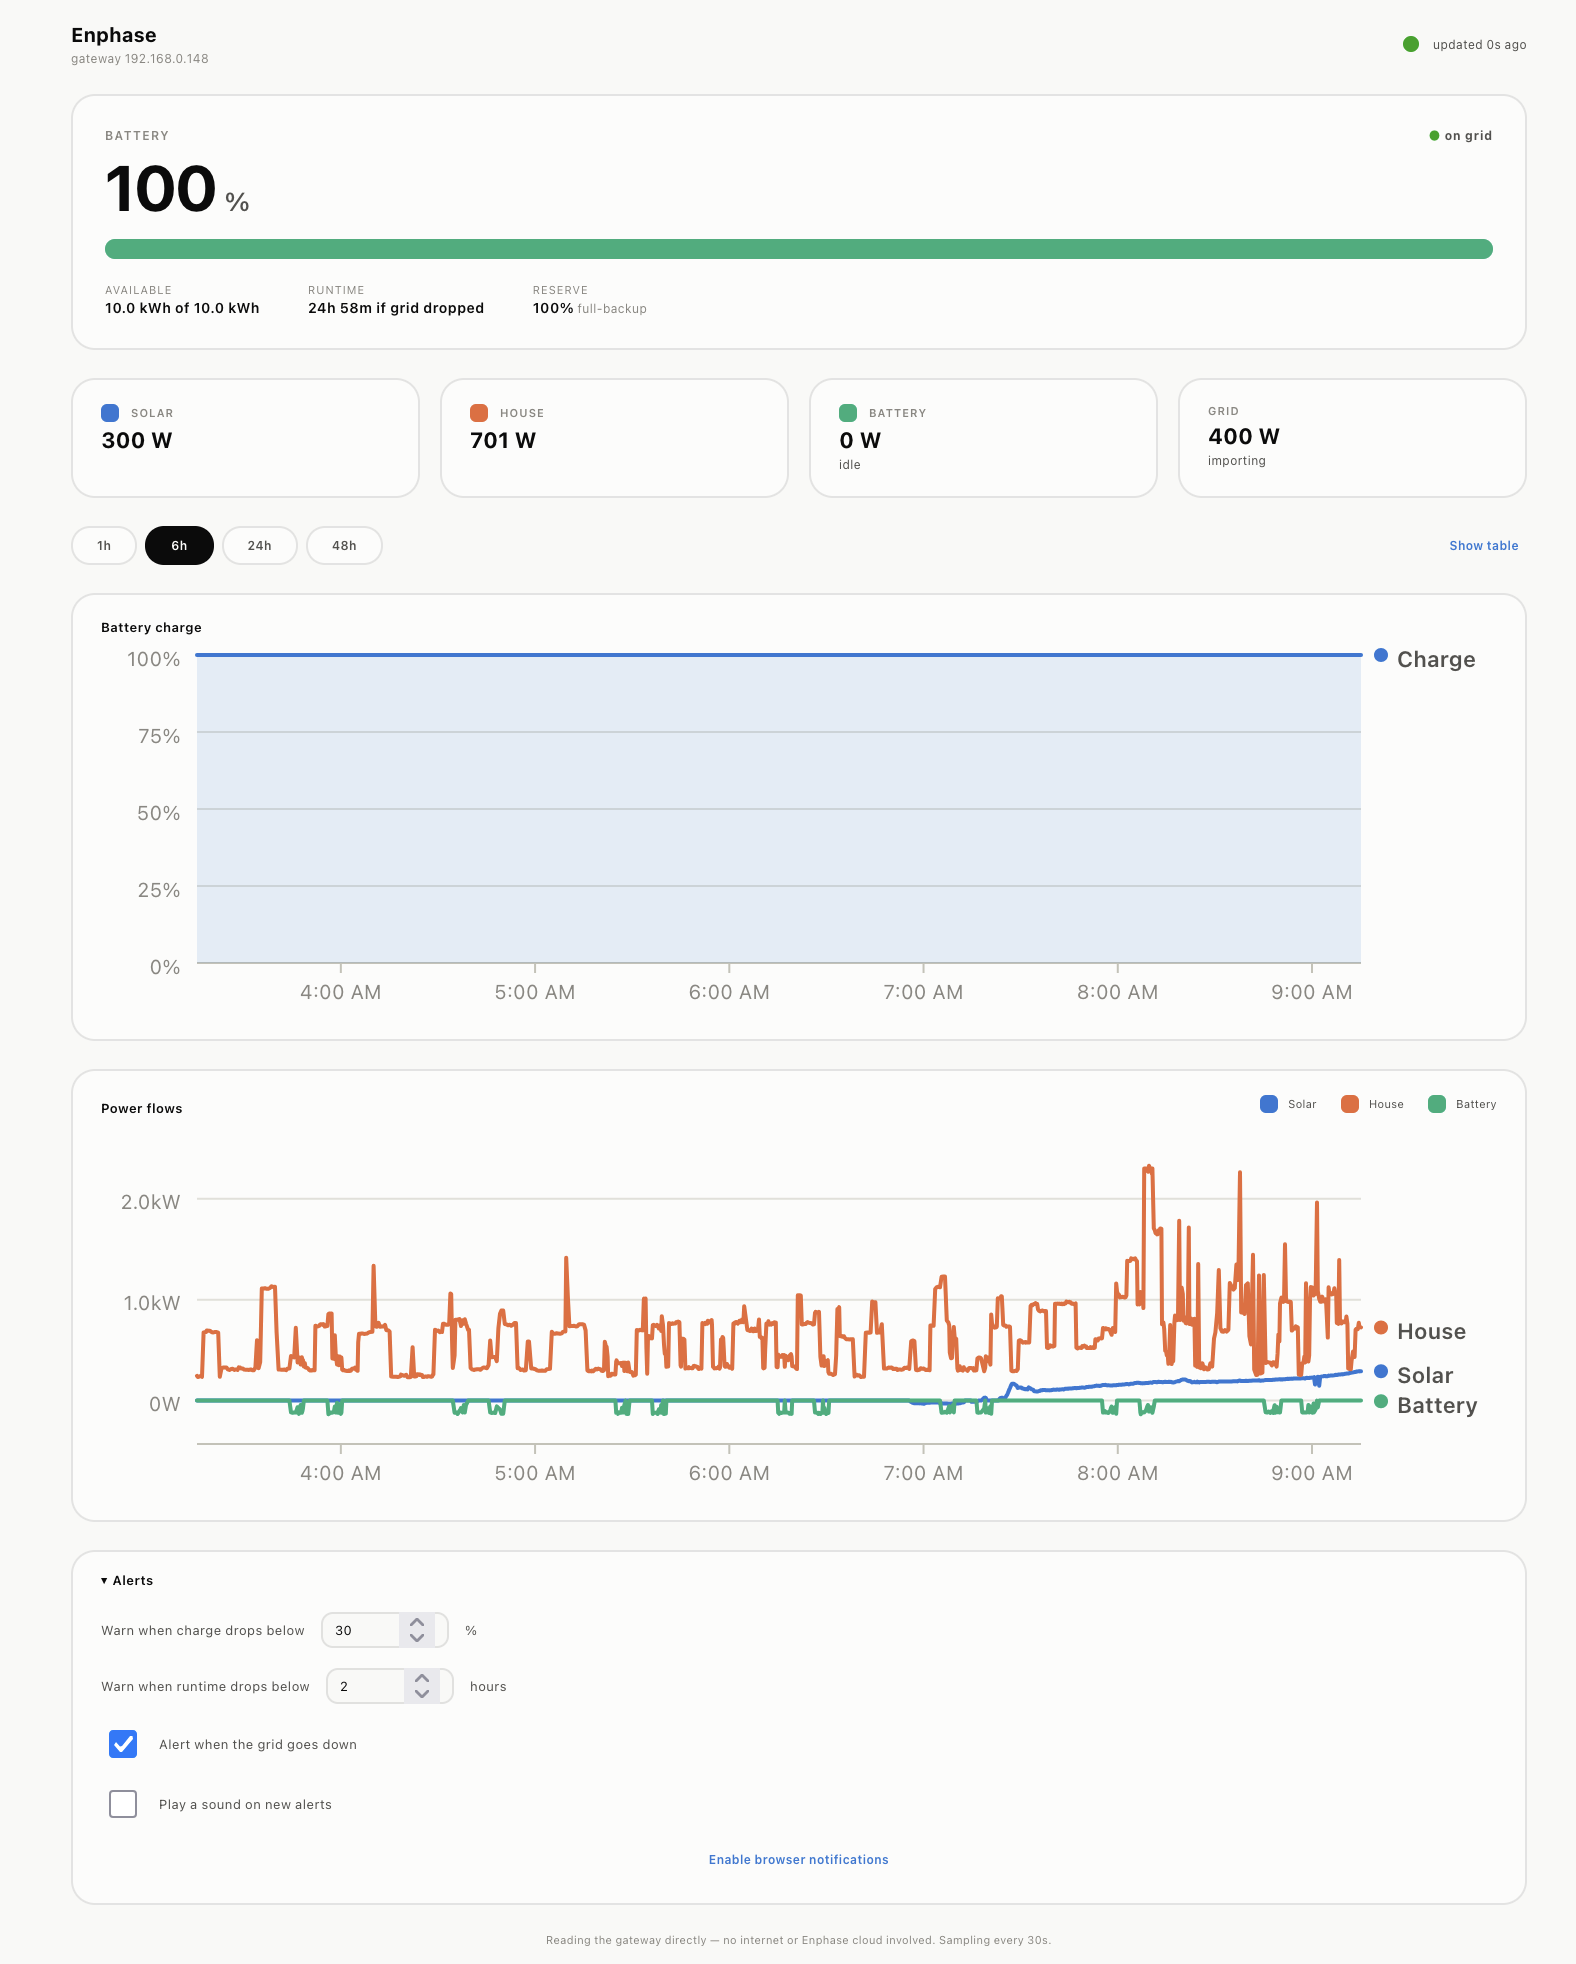
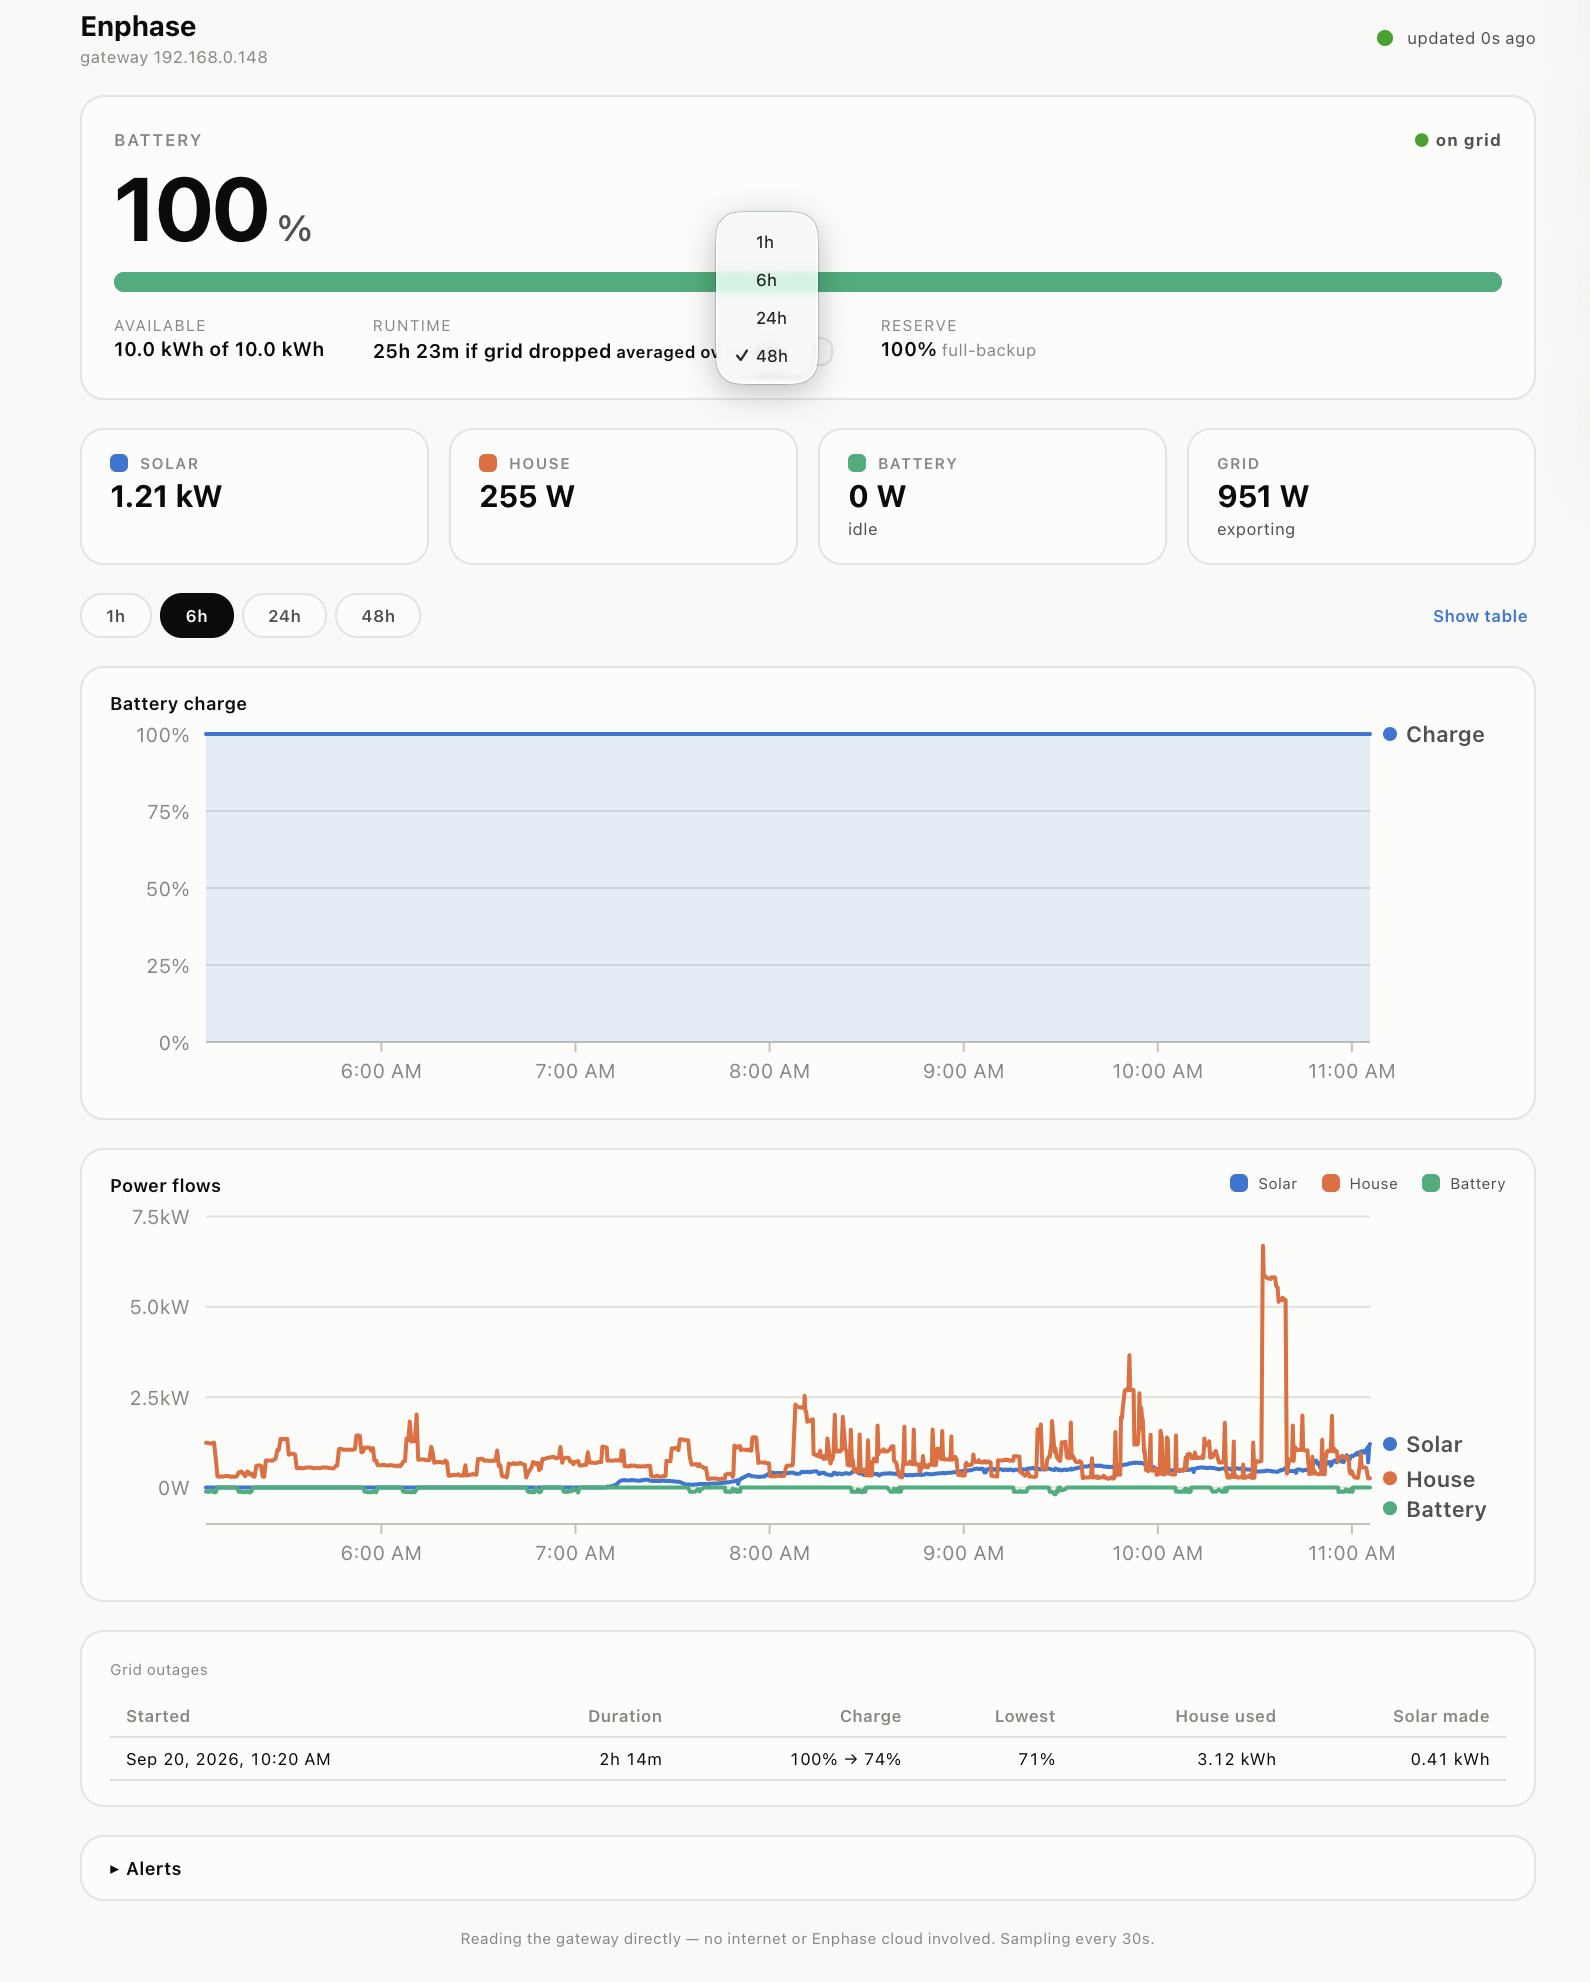
Refresh the README screenshot with the runtime window and outage log
Claude-Session: https://claude.ai/code/session_01GSByWCxpzxhrA5ZMFzp3qp

diff --git a/README.md b/README.md
@@ -5,7 +5,7 @@ Gateway on your LAN** — no internet, no Enphase cloud. Built for outages:
 as long as the gateway and this machine have power, you can see battery
 charge, solar, house load, and a runtime estimate.
 
-![Dashboard showing battery charge, live solar, house, battery and grid power, charge and power-flow charts, and alert settings](docs/screenshot.png)
+![Dashboard showing battery charge, runtime with its averaging-window selector, live solar, house, battery and grid power, charge and power-flow charts, the grid outage log, and alert settings](docs/screenshot.png)
 
 - **Server** (`server/`, TypeScript, zero runtime dependencies): holds your
   token, polls the gateway every 30 s, keeps 48 h of history on disk, serves
